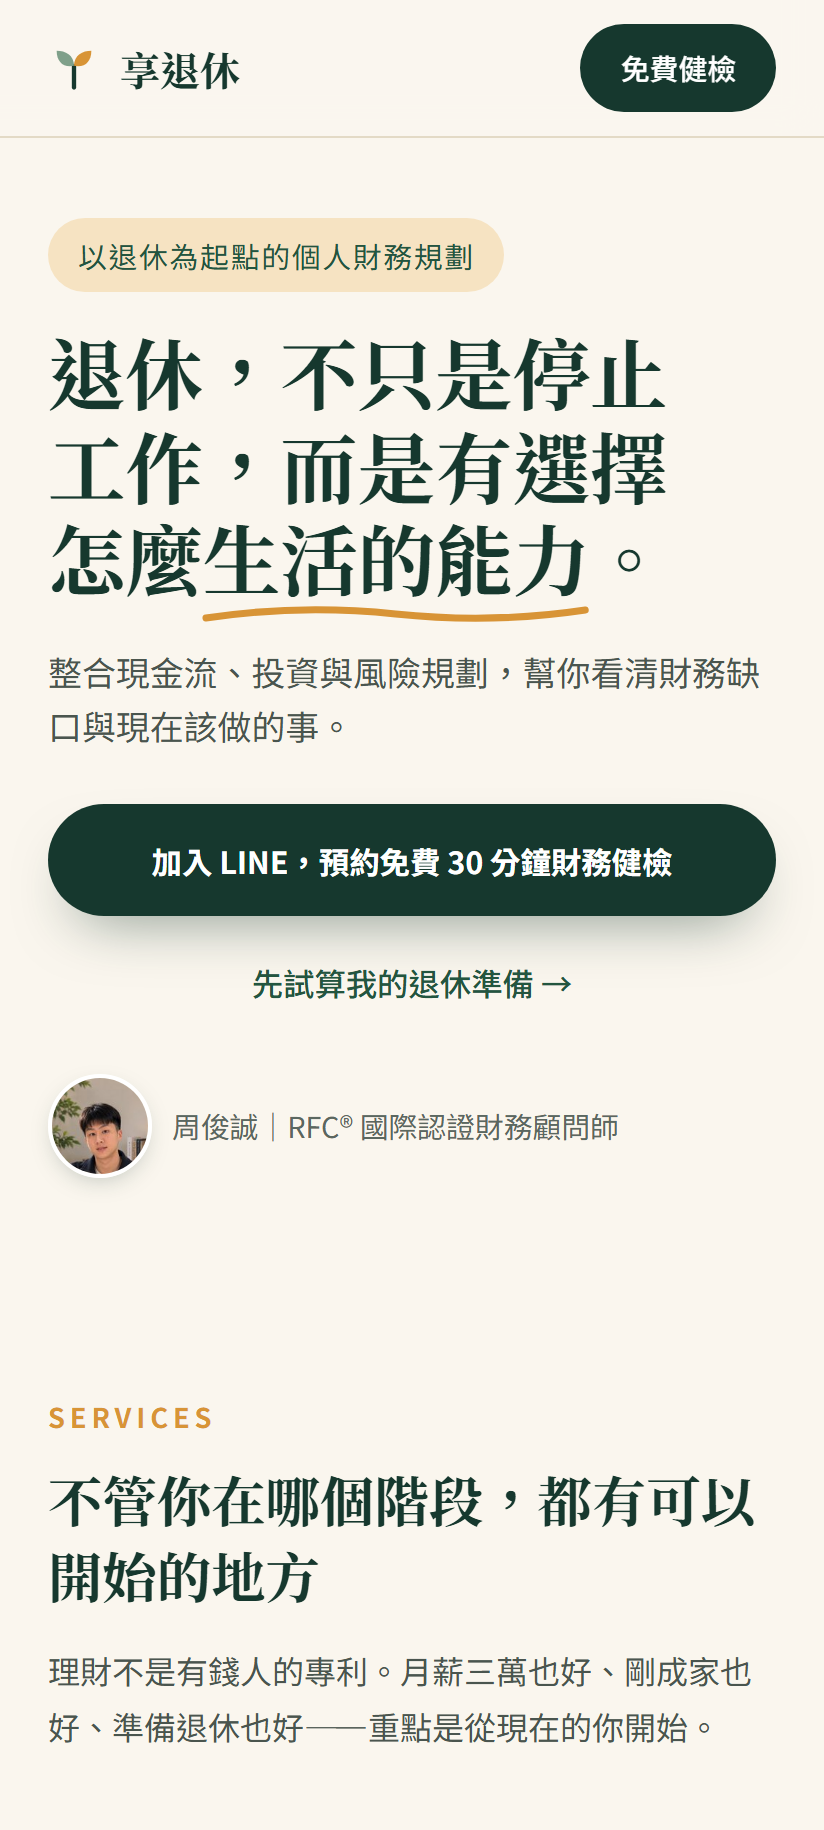
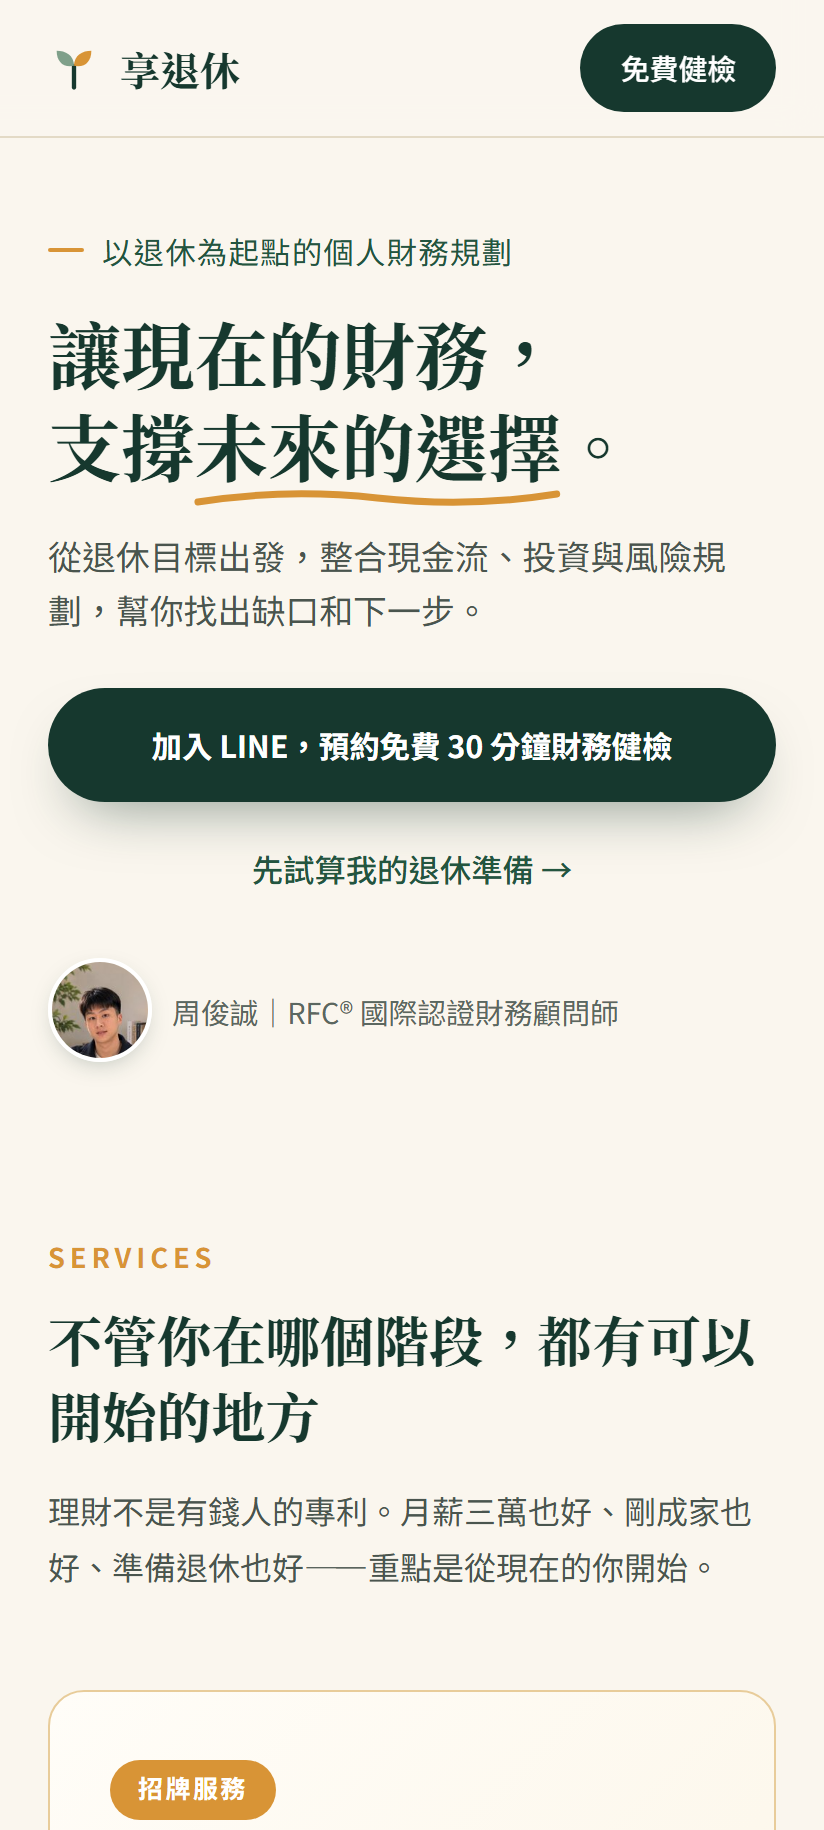
update

diff --git a/css/styles.css b/css/styles.css
@@ -14,7 +14,7 @@
   --num:"Fraunces", "Noto Serif TC", serif;
 }
 *{margin:0;padding:0;box-sizing:border-box}
-html{scroll-behavior:smooth}
+html{scroll-behavior:smooth;-webkit-text-size-adjust:100%;text-size-adjust:100%}
 @media (prefers-reduced-motion: reduce){
   html{scroll-behavior:auto}
   *,*::before,*::after{animation:none!important;transition:none!important}
@@ -69,7 +69,7 @@ header{
 }
 .hero h1{
   font-family:var(--serif);font-weight:700;color:var(--pine);
-  font-size:clamp(1.9rem, 3vw, 2.5rem);line-height:1.35;margin-bottom:22px;
+  font-size:clamp(1.9rem, 2.9vw, 2.4rem);line-height:1.3;margin-bottom:22px;
   text-wrap:balance;
 }
 .hero-h1-br{display:inline}
@@ -99,8 +99,10 @@ header{
 
 /* ---------- Hero:小標・身分・CTA 層級 ---------- */
 .hero-copy{max-width:40em}
-.hero-kicker{display:inline-block;font-size:.9rem;letter-spacing:.06em;color:var(--pine-2);
-  background:var(--honey-soft);padding:6px 15px;border-radius:999px;margin-bottom:18px}
+/* 小標:純分類文字(無膠囊底),前置一條蜂蜜短線做標記 */
+.hero-kicker{display:inline-flex;align-items:center;gap:9px;font-size:.95rem;letter-spacing:.04em;
+  color:var(--pine-2);margin-bottom:16px}
+.hero-kicker::before{content:"";width:18px;height:2px;border-radius:2px;background:var(--honey);flex:none}
 .btn.btn-lg{padding:15px 30px;font-size:1.02rem;font-weight:700}
 .hero-cta-primary{box-shadow:0 14px 30px -14px rgba(22,56,46,.55);white-space:nowrap}
 /* 次要 CTA:輕量文字連結,視覺層級明顯低於主 CTA */
@@ -339,7 +341,7 @@ footer .disc{max-width:720px;margin-top:10px;line-height:1.7}
   .hero-id-ava{display:block}
   .portrait{display:none}
   section{padding:64px 0}
-  .hero{padding:40px 0 44px}
+  .hero{padding:36px 0 22px}
   .calc-sec{margin:0}
   body{font-size:16px}
 }
@@ -427,8 +429,7 @@ footer .disc{max-width:720px;margin-top:10px;line-height:1.7}
   .quote{flex-basis:100%}        /* 手機:一頁 1 則 */
   .q-nav{display:none}           /* 改用滑動 + 圓點 */
   /* 手機:主標題放大(約36–40px)、行高緊湊;隱藏桌機強制斷行,標題自然平衡成2–3行 */
-  .hero h1{font-size:clamp(2.15rem,9.4vw,2.55rem);line-height:1.2;margin-bottom:20px}
-  .hero-h1-br{display:none}
+  .hero h1{font-size:clamp(2.1rem,8.9vw,2.4rem);line-height:1.25;margin-bottom:18px}
   .hero p.lead{font-size:1.06rem;line-height:1.6;margin-bottom:26px}
   .hero .btn.btn-lg{padding:15px 18px;font-size:.95rem}
 }

diff --git a/index.html b/index.html
@@ -43,8 +43,8 @@
   <div class="wrap hero-grid">
     <div class="hero-copy">
       <p class="hero-kicker">以退休為起點的個人財務規劃</p>
-      <h1>退休，不只是停止工作，<br class="hero-h1-br">而是有選擇怎麼<span class="hl">生活的能力<svg viewBox="0 0 200 12" preserveAspectRatio="none" aria-hidden="true"><path d="M2 9 Q 50 2, 100 7 T 198 5" fill="none" stroke="#D89436" stroke-width="3.5" stroke-linecap="round"/></svg></span>。</h1>
-      <p class="lead">整合現金流、投資與風險規劃，幫你看清財務缺口與現在該做的事。</p>
+      <h1>讓現在的財務，<br class="hero-h1-br">支撐<span class="hl">未來的選擇<svg viewBox="0 0 200 12" preserveAspectRatio="none" aria-hidden="true"><path d="M2 9 Q 50 2, 100 7 T 198 5" fill="none" stroke="#D89436" stroke-width="3.5" stroke-linecap="round"/></svg></span>。</h1>
+      <p class="lead">從退休目標出發，整合現金流、投資與風險規劃，幫你找出缺口和下一步。</p>
       <div class="hero-cta">
         <a class="btn btn-lg hero-cta-primary" href="https://line.me/R/ti/p/@453ubihw" target="_blank" rel="noopener" onclick="window.gtag&&gtag('event','click_line_hero')">加入 LINE，預約免費 30 分鐘財務健檢</a>
         <a class="hero-link hero-cta-secondary" href="#tools" onclick="window.gtag&&gtag('event','click_hero_retirement_tool')">先試算我的退休準備 →</a>
